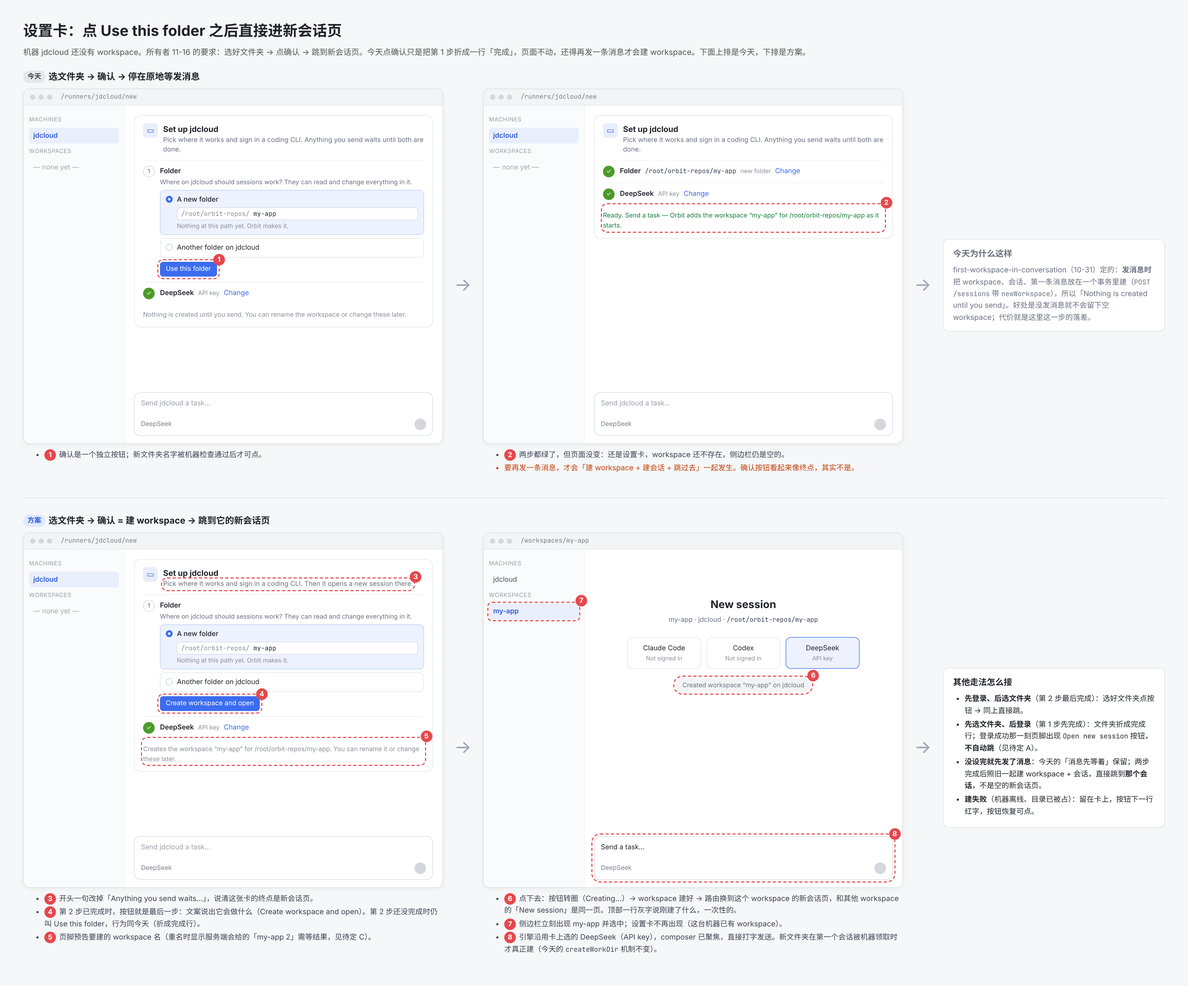
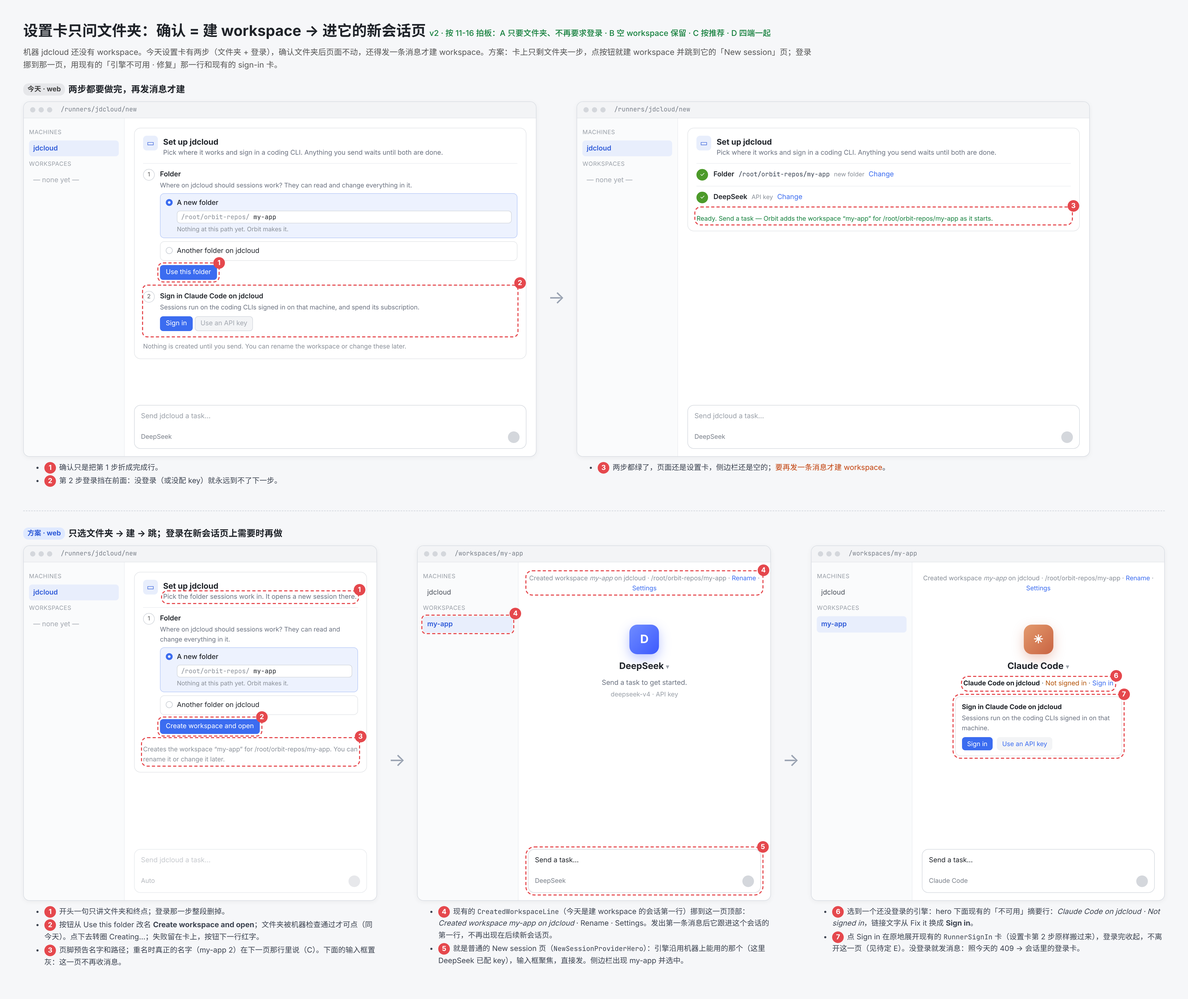
docs(mocks): setup card v2 — folder only, create and open; native frames

diff --git a/docs/mocks/setup-confirm-opens-session/board.html b/docs/mocks/setup-confirm-opens-session/board.html
@@ -91,171 +91,218 @@
   .b-box li { margin: 4px 0; }
   .b-rec { display: inline-block; background: #dcfce7; color: #15803d; font-size: 12px; padding: 0 7px; border-radius: 8px; margin-left: 6px; }
   code { font-family: "JetBrains Mono", monospace; font-size: .92em; }
+
+  .np { text-align: center; padding-top: 60px; }
+  .np-mark { width: 56px; height: 56px; border-radius: 15px; margin: 0 auto; display: flex; align-items: center; justify-content: center; color: #fff; font: 700 22px Inter, sans-serif; }
+  .np-mark.ds { background: linear-gradient(135deg, #6f8cff, #3d5afe); box-shadow: 0 8px 22px rgba(61,90,254,.34); }
+  .np-mark.cc { background: linear-gradient(135deg, #e39a6e, #c96442); box-shadow: 0 8px 22px rgba(201,100,66,.34); }
+  .np-name { font-size: 17px; font-weight: 700; margin-top: 10px; }
+  .np-name .chev { color: #9aa0a8; font-weight: 400; font-size: 13px; margin-left: 4px; }
+  .np-copy { color: #6b7280; font-size: 13px; margin-top: 6px; }
+  .np-model { color: #9aa0a8; font-size: 12px; margin-top: 2px; }
+  .np-sum { font-size: 12.5px; margin-top: 8px; color: #4a505a; }
+  .np-sum b { color: #1f2329; } .np-sum .warn { color: #b45309; } .np-sum a { color: #3b6cf0; }
+  .cwl { font-size: 12px; color: #8a9099; text-align: center; margin-top: 2px; }
+  .cwl i { font-style: italic; } .cwl a { color: #3b6cf0; }
+  .signin { margin: 14px auto 0; width: 290px; border: 1px solid #e3e5e8; border-radius: 10px; padding: 10px 12px; text-align: left; font-size: 12.5px; }
+  .signin .bt { display: inline-block; margin: 8px 8px 0 0; padding: 3px 10px; border-radius: 6px; background: #3b6cf0; color: #fff; font-size: 12px; }
+  .signin .bt.ghost { background: #f3f4f6; color: #3b6cf0; }
+
+  .phones { display: flex; gap: 26px; align-items: flex-start; flex-wrap: nowrap; }
+  .pcol { width: 330px; flex: 0 0 auto; }
+  .ph { width: 330px; height: 700px; border-radius: 44px; border: 1px solid #d6d9de; background: #f2f2f7; position: relative; overflow: hidden; box-shadow: 0 2px 10px rgba(0,0,0,.05); font-size: 13px; }
+  .ph.and { border-radius: 26px; background: #f7f8fb; }
+  .ph-st { height: 40px; display: flex; justify-content: space-between; align-items: center; padding: 6px 28px 0; font-weight: 600; font-size: 13px; }
+  .ph-home { position: absolute; bottom: 8px; left: 50%; margin-left: -55px; width: 110px; height: 4px; border-radius: 2px; background: #1f2329; }
+  .ph.and .ph-home { width: 90px; margin-left: -45px; background: #9aa0a8; }
+  .ph-nav { display: flex; align-items: center; gap: 10px; padding: 4px 14px 8px; }
+  .ph-burger { width: 32px; height: 32px; border-radius: 50%; background: #fff; display: flex; align-items: center; justify-content: center; box-shadow: 0 1px 3px rgba(0,0,0,.08); }
+  .ph-t { font-weight: 700; font-size: 15px; line-height: 1.2; } .ph-t small { display: block; font-weight: 400; color: #8a8a8d; font-size: 11.5px; }
+  .ph-card { background: #fff; margin: 4px 12px; border-radius: 16px; padding: 12px 14px; font-size: 12.5px; }
+  .ph.and .ph-card { border-radius: 14px; border: 1px solid #e3e6ec; }
+  .grp { background: rgba(120,120,128,.1); border-radius: 10px; margin-top: 6px; }
+  .grp .o { padding: 7px 10px 7px 28px; position: relative; border-top: 1px solid rgba(0,0,0,.06); }
+  .grp .o:first-child { border-top: 0; }
+  .grp .o.on::before { content: "✓"; position: absolute; left: 10px; color: #3b6cf0; font-weight: 700; }
+  .ph.and .grp .o { padding-left: 32px; } .ph.and .grp .o::before { content: ""; position: absolute; left: 10px; top: 10px; width: 12px; height: 12px; border-radius: 50%; border: 2px solid #9aa0a8; box-sizing: border-box; }
+  .ph.and .grp .o.on::before { border: 4px solid #3b6cf0; content: ""; }
+  .cap { display: inline-block; margin-top: 9px; padding: 5px 13px; border-radius: 16px; background: #3b6cf0; color: #fff; font-weight: 600; font-size: 12.5px; }
+  .ph.and .cap { border-radius: 18px; }
+  .fld { background: #fff; border: 1px solid #d5d9df; border-radius: 7px; padding: 3px 7px; margin-top: 4px; font: 11.5px "JetBrains Mono", monospace; color: #8a9099; }
+  .fld b { color: #1f2329; font-weight: 400; }
+  .ph-comp { position: absolute; left: 12px; right: 12px; bottom: 26px; background: #fff; border-radius: 20px; padding: 10px 14px; color: #9aa0a8; box-shadow: 0 1px 4px rgba(0,0,0,.06); }
+  .ph-comp .r { display: flex; justify-content: space-between; margin-top: 14px; font-size: 12px; color: #4a505a; }
+  .ph-comp .go { width: 22px; height: 22px; border-radius: 50%; background: #d4d7dc; display: inline-block; vertical-align: middle; }
+  .drawer { position: absolute; inset: 40px 70px 0 0; background: #f9f9fb; border-right: 1px solid #e3e5e8; padding: 14px 16px; }
+  .drawer .h1 { font-size: 22px; font-weight: 800; margin-bottom: 10px; }
+  .drawer .row { padding: 6px 0; } .drawer .sec { color: #8a8a8d; margin-top: 14px; font-size: 12px; border-top: 1px solid #e3e5e8; padding-top: 10px; }
+  .drawer .pill { background: #e4ebfd; color: #2f5bd8; border-radius: 10px; padding: 7px 10px; margin-top: 6px; }
+  .mac { display: flex; height: 470px; }
+  .b-done { background: #ecfdf3; border: 1px solid #b7ebc9; }
+  .b-done h3 { color: #15803d; }
 </style>
 </head>
 <body>
-
-<!-- ============ Part 1: today vs proposal ============ -->
 <section class="b-part">
-  <h1>设置卡：点 Use this folder 之后直接进新会话页</h1>
-  <p class="b-lead">机器 jdcloud 还没有 workspace。所有者 11-16 的要求：选好文件夹 → 点确认 → 跳到新会话页。今天点确认只是把第 1 步折成一行「完成」，页面不动，还得再发一条消息才会建 workspace。下面上排是今天，下排是方案。</p>
+<h1>设置卡只问文件夹：确认 = 建 workspace → 进它的新会话页 <span style="font-size:15px;color:#15803d;font-weight:500">v2 · 按 11-16 拍板：A 只要文件夹、不再要求登录 · B 空 workspace 保留 · C 按推荐 · D 四端一起</span></h1>
+<p class="b-lead">机器 jdcloud 还没有 workspace。今天设置卡有两步（文件夹 + 登录），确认文件夹后页面不动，还得发一条消息才建 workspace。方案：卡上只剩文件夹一步，点按钮就建 workspace 并跳到它的「New session」页；登录挪到那一页，用现有的「引擎不可用 · 修复」那一行和现有的 sign-in 卡。</p>
 
-  <div class="b-stage"><span class="b-tag today">今天</span>选文件夹 → 确认 → 停在原地等发消息</div>
-  <div class="b-row">
-    <div class="b-col">
-      <div class="w"><div class="w-bar"><i></i><i></i><i></i><span>/runners/jdcloud/new</span></div>
-        <div class="w-body">
-          <div class="w-side"><div class="h">Machines</div><div class="it on">jdcloud</div><div class="h">Workspaces</div><div class="it dim">— none yet —</div></div>
-          <div class="w-main">
-            <div class="msc">
-              <div class="msc-head"><div class="msc-icon">▭</div><div><div class="msc-title">Set up jdcloud</div><div class="msc-sub">Pick where it works and sign in a coding CLI. Anything you send waits until both are done.</div></div></div>
-              <div class="msc-step"><div class="msc-num">1</div><div style="flex:1">
-                <div class="msc-st">Folder</div><div class="msc-help">Where on jdcloud should sessions work? They can read and change everything in it.</div>
-                <div class="msc-opt on"><div class="msc-radio"></div><div style="flex:1"><div class="msc-st" style="font-weight:500">A new folder</div><div class="msc-input">/root/orbit-repos/ <b>my-app</b></div><div class="msc-meta">Nothing at this path yet. Orbit makes it.</div></div></div>
-                <div class="msc-opt"><div class="msc-radio"></div><div>Another folder on jdcloud</div></div>
-                <div class="b-ring msc-btn primary" style="outline-offset:3px">Use this folder<span class="b-pin">1</span></div>
-              </div></div>
-              <div class="msc-step" style="border-bottom:0"><div class="msc-num done">✓</div><div class="msc-done"><span class="msc-st">DeepSeek</span><span class="msc-meta">API key</span><span class="msc-link">Change</span></div></div>
-              <div class="msc-foot">Nothing is created until you send. You can rename the workspace or change these later.</div>
-            </div>
-            <div class="w-fill"></div>
-            <div class="composer">Send jdcloud a task…<div class="row"><span>DeepSeek</span><span class="send"></span></div></div>
-          </div>
-        </div>
-      </div>
-      <ul class="b-note"><li><span class="b-pin">1</span>确认是一个独立按钮；新文件夹名字被机器检查通过后才可点。</li></ul>
-    </div>
-    <div class="b-arrow">→</div>
-    <div class="b-col">
-      <div class="w"><div class="w-bar"><i></i><i></i><i></i><span>/runners/jdcloud/new</span></div>
-        <div class="w-body">
-          <div class="w-side"><div class="h">Machines</div><div class="it on">jdcloud</div><div class="h">Workspaces</div><div class="it dim">— none yet —</div></div>
-          <div class="w-main">
-            <div class="msc">
-              <div class="msc-head"><div class="msc-icon">▭</div><div><div class="msc-title">Set up jdcloud</div><div class="msc-sub">Pick where it works and sign in a coding CLI. Anything you send waits until both are done.</div></div></div>
-              <div class="msc-step"><div class="msc-num done">✓</div><div class="msc-done"><span class="msc-st">Folder</span><span class="msc-path">/root/orbit-repos/my-app</span><span class="msc-meta">new folder</span><span class="msc-link">Change</span></div></div>
-              <div class="msc-step" style="border-bottom:0"><div class="msc-num done">✓</div><div class="msc-done"><span class="msc-st">DeepSeek</span><span class="msc-meta">API key</span><span class="msc-link">Change</span></div></div>
-              <div class="b-ring msc-foot ready" style="outline-offset:2px">Ready. Send a task — Orbit adds the workspace “my-app” for /root/orbit-repos/my-app as it starts.<span class="b-pin">2</span></div>
-            </div>
-            <div class="w-fill"></div>
-            <div class="composer">Send jdcloud a task…<div class="row"><span>DeepSeek</span><span class="send"></span></div></div>
-          </div>
-        </div>
-      </div>
-      <ul class="b-note"><li><span class="b-pin">2</span>两步都绿了，但页面没变：还是设置卡，workspace 还不存在，侧边栏仍是空的。</li>
-      <li class="b-bad">要再发一条消息，才会「建 workspace + 建会话 + 跳过去」一起发生。确认按钮看起来像终点，其实不是。</li></ul>
-    </div>
-    <div class="b-arrow">→</div>
-    <div class="b-col" style="align-self:center; color:#6b7280; font-size:14px; max-width:420px">
-      <div class="b-box"><h3>今天为什么这样</h3>
-      <p style="margin:0">first-workspace-in-conversation（10-31）定的：<b>发消息时</b>把 workspace、会话、第一条消息放在一个事务里建（<code>POST /sessions</code> 带 <code>newWorkspace</code>），所以「Nothing is created until you send」。好处是没发消息就不会留下空 workspace；代价就是这里这一步的落差。</p></div>
-    </div>
-  </div>
+<div class="b-stage"><span class="b-tag today">今天 · web</span>两步都要做完，再发消息才建</div>
+<div class="b-row">
+ <div class="b-col"><div class="w"><div class="w-bar"><i></i><i></i><i></i><span>/runners/jdcloud/new</span></div><div class="w-body"><div class="w-side"><div class="h">Machines</div><div class="it on">jdcloud</div><div class="h">Workspaces</div><div class="it dim">— none yet —</div></div><div class="w-main"><div class="msc">
+<div class="msc-head"><div class="msc-icon">▭</div><div><div class="msc-title">Set up jdcloud</div><div class="msc-sub">Pick where it works and sign in a coding CLI. Anything you send waits until both are done.</div></div></div>
+<div class="msc-step"><div class="msc-num">1</div><div style="flex:1"><div class="msc-st">Folder</div><div class="msc-help">Where on jdcloud should sessions work? They can read and change everything in it.</div><div class="msc-opt on"><div class="msc-radio"></div><div style="flex:1"><div class="msc-st" style="font-weight:500">A new folder</div><div class="msc-input">/root/orbit-repos/ <b>my-app</b></div><div class="msc-meta">Nothing at this path yet. Orbit makes it.</div></div></div>
+<div class="msc-opt"><div class="msc-radio"></div><div>Another folder on jdcloud</div></div>
+<div class="b-ring msc-btn primary" style="outline-offset:3px">Use this folder<span class="b-pin">1</span></div></div></div>
+<div class="b-ring msc-step" style="border-bottom:0;outline-offset:0"><div class="msc-num">2</div><div style="flex:1"><div class="msc-st">Sign in Claude Code on jdcloud</div><div class="msc-help">Sessions run on the coding CLIs signed in on that machine, and spend its subscription.</div><div class="msc-btn primary">Sign in</div> <div class="msc-btn">Use an API key</div></div><span class="b-pin">2</span></div>
+<div class="msc-foot">Nothing is created until you send. You can rename the workspace or change these later.</div></div>
+<div class="w-fill"></div><div class="composer">Send jdcloud a task…<div class="row"><span>DeepSeek</span><span class="send"></span></div></div></div></div></div>
+  <ul class="b-note"><li><span class="b-pin">1</span>确认只是把第 1 步折成完成行。</li><li><span class="b-pin">2</span>第 2 步登录挡在前面：没登录（或没配 key）就永远到不了下一步。</li></ul></div>
+ <div class="b-arrow">→</div>
+ <div class="b-col"><div class="w"><div class="w-bar"><i></i><i></i><i></i><span>/runners/jdcloud/new</span></div><div class="w-body"><div class="w-side"><div class="h">Machines</div><div class="it on">jdcloud</div><div class="h">Workspaces</div><div class="it dim">— none yet —</div></div><div class="w-main"><div class="msc">
+<div class="msc-head"><div class="msc-icon">▭</div><div><div class="msc-title">Set up jdcloud</div><div class="msc-sub">Pick where it works and sign in a coding CLI. Anything you send waits until both are done.</div></div></div>
+<div class="msc-step"><div class="msc-num done">✓</div><div class="msc-done"><span class="msc-st">Folder</span><span class="msc-path">/root/orbit-repos/my-app</span><span class="msc-meta">new folder</span><span class="msc-link">Change</span></div></div>
+<div class="msc-step" style="border-bottom:0"><div class="msc-num done">✓</div><div class="msc-done"><span class="msc-st">DeepSeek</span><span class="msc-meta">API key</span><span class="msc-link">Change</span></div></div>
+<div class="b-ring msc-foot ready" style="outline-offset:2px">Ready. Send a task — Orbit adds the workspace “my-app” for /root/orbit-repos/my-app as it starts.<span class="b-pin">3</span></div></div>
+<div class="w-fill"></div><div class="composer">Send jdcloud a task…<div class="row"><span>DeepSeek</span><span class="send"></span></div></div></div></div></div>
+  <ul class="b-note"><li><span class="b-pin">3</span>两步都绿了，页面还是设置卡，侧边栏还是空的；<span class="b-bad">要再发一条消息才建 workspace</span>。</li></ul></div>
+ <div class="b-col" style="max-width:120px"></div>
+</div>
 
-  <hr class="b-sep">
+<hr class="b-sep">
 
-  <div class="b-stage"><span class="b-tag new">方案</span>选文件夹 → 确认 = 建 workspace → 跳到它的新会话页</div>
-  <div class="b-row">
-    <div class="b-col">
-      <div class="w"><div class="w-bar"><i></i><i></i><i></i><span>/runners/jdcloud/new</span></div>
-        <div class="w-body">
-          <div class="w-side"><div class="h">Machines</div><div class="it on">jdcloud</div><div class="h">Workspaces</div><div class="it dim">— none yet —</div></div>
-          <div class="w-main">
-            <div class="msc">
-              <div class="msc-head"><div class="msc-icon">▭</div><div><div class="msc-title">Set up jdcloud</div><div class="b-ring msc-sub" style="outline-offset:2px">Pick where it works and sign in a coding CLI. Then it opens a new session there.<span class="b-pin">3</span></div></div></div>
-              <div class="msc-step"><div class="msc-num">1</div><div style="flex:1">
-                <div class="msc-st">Folder</div><div class="msc-help">Where on jdcloud should sessions work? They can read and change everything in it.</div>
-                <div class="msc-opt on"><div class="msc-radio"></div><div style="flex:1"><div class="msc-st" style="font-weight:500">A new folder</div><div class="msc-input">/root/orbit-repos/ <b>my-app</b></div><div class="msc-meta">Nothing at this path yet. Orbit makes it.</div></div></div>
-                <div class="msc-opt"><div class="msc-radio"></div><div>Another folder on jdcloud</div></div>
-                <div class="b-ring msc-btn primary" style="outline-offset:3px">Create workspace and open<span class="b-pin">4</span></div>
-              </div></div>
-              <div class="msc-step" style="border-bottom:0"><div class="msc-num done">✓</div><div class="msc-done"><span class="msc-st">DeepSeek</span><span class="msc-meta">API key</span><span class="msc-link">Change</span></div></div>
-              <div class="b-ring msc-foot" style="outline-offset:2px">Creates the workspace “my-app” for /root/orbit-repos/my-app. You can rename it or change these later.<span class="b-pin">5</span></div>
-            </div>
-            <div class="w-fill"></div>
-            <div class="composer">Send jdcloud a task…<div class="row"><span>DeepSeek</span><span class="send"></span></div></div>
-          </div>
-        </div>
-      </div>
-      <ul class="b-note">
-        <li><span class="b-pin">3</span>开头一句改掉「Anything you send waits…」，说清这张卡的终点是新会话页。</li>
-        <li><span class="b-pin">4</span>第 2 步已完成时，按钮就是最后一步：文案说出它会做什么（Create workspace and open）。第 2 步还没完成时仍叫 Use this folder，行为同今天（折成完成行）。</li>
-        <li><span class="b-pin">5</span>页脚预告要建的 workspace 名（重名时显示服务端会给的「my-app 2」需等结果，见待定 C）。</li>
-      </ul>
-    </div>
-    <div class="b-arrow">→</div>
-    <div class="b-col">
-      <div class="w"><div class="w-bar"><i></i><i></i><i></i><span>/workspaces/my-app</span></div>
-        <div class="w-body">
-          <div class="w-side"><div class="h">Machines</div><div class="it">jdcloud</div><div class="h">Workspaces</div><div class="b-ring it on" style="outline-offset:1px">my-app<span class="b-pin">7</span></div></div>
-          <div class="w-main">
-            <div class="hero">
-              <div class="t">New session</div>
-              <div class="s">my-app · jdcloud · <code>/root/orbit-repos/my-app</code></div>
-              <div class="tiles"><div class="tile"><div>Claude Code</div><div class="k">Not signed in</div></div><div class="tile"><div>Codex</div><div class="k">Not signed in</div></div><div class="tile on"><div>DeepSeek</div><div class="k">API key</div></div></div>
-              <div class="b-ring toast" style="outline-offset:3px">Created workspace “my-app” on jdcloud<span class="b-pin">6</span></div>
-            </div>
-            <div class="w-fill"></div>
-            <div class="b-ring composer" style="color:#1f2329; outline-offset:3px">Send a task…<span class="b-pin">8</span><div class="row"><span>DeepSeek</span><span class="send"></span></div></div>
-          </div>
-        </div>
-      </div>
-      <ul class="b-note">
-        <li><span class="b-pin">6</span>点下去：按钮转圈（Creating…）→ workspace 建好 → 路由换到这个 workspace 的新会话页，和其他 workspace 的「New session」是同一页。顶部一行灰字说刚建了什么，一次性的。</li>
-        <li><span class="b-pin">7</span>侧边栏立刻出现 my-app 并选中；设置卡不再出现（这台机器已有 workspace）。</li>
-        <li><span class="b-pin">8</span>引擎沿用卡上选的 DeepSeek（API key），composer 已聚焦，直接打字发送。新文件夹在第一个会话被机器领取时才真正建（今天的 <code>createWorkDir</code> 机制不变）。</li>
-      </ul>
-    </div>
-    <div class="b-arrow">→</div>
-    <div class="b-col" style="align-self:center; max-width:420px">
-      <div class="b-box"><h3>其他走法怎么接</h3>
-      <ul style="font-size:14px">
-        <li><b>先登录、后选文件夹</b>（第 2 步最后完成）：选好文件夹点按钮 → 同上直接跳。</li>
-        <li><b>先选文件夹、后登录</b>（第 1 步先完成）：文件夹折成完成行；登录成功那一刻页脚出现 <code>Open new session</code> 按钮，<b>不自动跳</b>（见待定 A）。</li>
-        <li><b>没设完就先发了消息</b>：今天的「消息先等着」保留；两步完成后照旧一起建 workspace + 会话，直接跳到<b>那个会话</b>，不是空的新会话页。</li>
-        <li><b>建失败</b>（机器离线、目录已被占）：留在卡上，按钮下一行红字，按钮恢复可点。</li>
-      </ul></div>
-    </div>
-  </div>
+<div class="b-stage"><span class="b-tag new">方案 · web</span>只选文件夹 → 建 → 跳；登录在新会话页上需要时再做</div>
+<div class="b-row">
+ <div class="b-col"><div class="w"><div class="w-bar"><i></i><i></i><i></i><span>/runners/jdcloud/new</span></div><div class="w-body"><div class="w-side"><div class="h">Machines</div><div class="it on">jdcloud</div><div class="h">Workspaces</div><div class="it dim">— none yet —</div></div><div class="w-main"><div class="msc">
+<div class="msc-head"><div class="msc-icon">▭</div><div><div class="msc-title">Set up jdcloud</div><div class="b-ring msc-sub" style="outline-offset:2px">Pick the folder sessions work in. It opens a new session there.<span class="b-pin">1</span></div></div></div>
+<div class="msc-step" style="border-bottom:0"><div class="msc-num">1</div><div style="flex:1"><div class="msc-st">Folder</div><div class="msc-help">Where on jdcloud should sessions work? They can read and change everything in it.</div><div class="msc-opt on"><div class="msc-radio"></div><div style="flex:1"><div class="msc-st" style="font-weight:500">A new folder</div><div class="msc-input">/root/orbit-repos/ <b>my-app</b></div><div class="msc-meta">Nothing at this path yet. Orbit makes it.</div></div></div>
+<div class="msc-opt"><div class="msc-radio"></div><div>Another folder on jdcloud</div></div>
+<div class="b-ring msc-btn primary" style="outline-offset:3px">Create workspace and open<span class="b-pin">2</span></div></div></div>
+<div class="b-ring msc-foot" style="outline-offset:2px">Creates the workspace “my-app” for /root/orbit-repos/my-app. You can rename it or change it later.<span class="b-pin">3</span></div></div>
+<div class="w-fill"></div>
+<div class="composer" style="opacity:.55">Send jdcloud a task…<div class="row"><span>Auto</span><span class="send"></span></div></div></div></div></div>
+  <ul class="b-note">
+   <li><span class="b-pin">1</span>开头一句只讲文件夹和终点；登录那一步整段删掉。</li>
+   <li><span class="b-pin">2</span>按钮从 Use this folder 改名 <b>Create workspace and open</b>；文件夹被机器检查通过才可点（同今天）。点下去转圈 Creating…；失败留在卡上，按钮下一行红字。</li>
+   <li><span class="b-pin">3</span>页脚预告名字和路径；重名时真正的名字（my-app 2）在下一页那行里说（C）。下面的输入框置灰：这一页不再收消息。</li>
+  </ul></div>
+ <div class="b-arrow">→</div>
+ <div class="b-col"><div class="w"><div class="w-bar"><i></i><i></i><i></i><span>/workspaces/my-app</span></div><div class="w-body"><div class="w-side"><div class="h">Machines</div><div class="it">jdcloud</div><div class="h">Workspaces</div><div class="b-ring it on" style="outline-offset:1px">my-app<span class="b-pin">4</span></div></div><div class="w-main"><div class="b-ring cwl" style="outline-offset:3px">Created workspace <i>my-app</i> on jdcloud · /root/orbit-repos/my-app · <a>Rename</a> · <a>Settings</a><span class="b-pin">4</span></div>
+<div class="np"><div class="np-mark ds">D</div><div class="np-name">DeepSeek<span class="chev">▾</span></div><div class="np-copy">Send a task to get started.</div><div class="np-model">deepseek-v4 · API key</div></div>
+<div class="w-fill"></div>
+<div class="b-ring composer" style="color:#1f2329;outline-offset:3px">Send a task…<span class="b-pin">5</span><div class="row"><span>DeepSeek</span><span class="send"></span></div></div></div></div></div>
+  <ul class="b-note">
+   <li><span class="b-pin">4</span>现有的 <code>CreatedWorkspaceLine</code>（今天是建 workspace 的会话第一行）挪到这一页顶部：<i>Created workspace my-app on jdcloud</i> · Rename · Settings。发出第一条消息后它跟进这个会话的第一行，不再出现在后续新会话页。</li>
+   <li><span class="b-pin">5</span>就是普通的 New session 页（<code>NewSessionProviderHero</code>）：引擎沿用机器上能用的那个（这里 DeepSeek 已配 key），输入框聚焦，直接发。侧边栏出现 my-app 并选中。</li>
+  </ul></div>
+ <div class="b-arrow">→</div>
+ <div class="b-col"><div class="w"><div class="w-bar"><i></i><i></i><i></i><span>/workspaces/my-app</span></div><div class="w-body"><div class="w-side"><div class="h">Machines</div><div class="it">jdcloud</div><div class="h">Workspaces</div><div class="it on">my-app</div></div><div class="w-main"><div class="cwl">Created workspace <i>my-app</i> on jdcloud · /root/orbit-repos/my-app · <a>Rename</a> · <a>Settings</a></div>
+<div class="np"><div class="np-mark cc">✳</div><div class="np-name">Claude Code<span class="chev">▾</span></div>
+<div class="b-ring np-sum" style="outline-offset:3px;display:inline-block"><b>Claude Code on jdcloud</b> · <span class="warn">Not signed in</span> · <a>Sign in</a><span class="b-pin">6</span></div>
+<div class="b-ring signin" style="outline-offset:3px"><b>Sign in Claude Code on jdcloud</b><div class="msc-help">Sessions run on the coding CLIs signed in on that machine.</div><span class="bt">Sign in</span><span class="bt ghost">Use an API key</span><span class="b-pin">7</span></div></div>
+<div class="w-fill"></div>
+<div class="composer" style="color:#1f2329">Send a task…<div class="row"><span>Claude Code</span><span class="send"></span></div></div></div></div></div>
+  <ul class="b-note">
+   <li><span class="b-pin">6</span>选到一个还没登录的引擎：hero 下面现有的「不可用」摘要行：<i>Claude Code on jdcloud · Not signed in</i>，链接文字从 Fix it 换成 <b>Sign in</b>。</li>
+   <li><span class="b-pin">7</span>点 Sign in 在原地展开现有的 <code>RunnerSignIn</code> 卡（设置卡第 2 步原样搬过来），登录完收起，不离开这一页（见待定 E）。没登录就发消息：照今天的 409 → 会话里的登录卡。</li>
+  </ul></div>
+</div>
 </section>
-
-<!-- ============ Part 2: rules, changes, decisions ============ -->
 <section class="b-part">
-  <h2>改动清单 · 待你定</h2>
-  <div class="b-row" style="align-items:stretch">
-    <div class="b-col b-box">
-      <h3>规则</h3>
-      <ol>
-        <li>确认按钮是设置的终点：两步都完成时，点它就建 workspace 并进入它的新会话页。</li>
-        <li>建出来的 workspace 和 10-31 的规则一致：名字取文件夹名、重名加「 2」、隔离关、新文件夹 <code>autoCreateWorkDir</code>。</li>
-        <li>引擎/凭据沿用卡上已选的，带到新会话页的草稿。</li>
-        <li>已有等待中的消息时，不建空 workspace，直接按今天的路建 workspace + 会话。</li>
-        <li>失败不跳页、不留半个 workspace（服务端一个请求一个事务）。</li>
-        <li>「Nothing is created until you send」这句删掉；SETUP_LEAD、setupReady 换成新文案。</li>
-      </ol>
-    </div>
-    <div class="b-col b-box">
-      <h3>落地（按代价排）</h3>
-      <table class="b-t">
-        <tr><th>层</th><th>改什么</th><th>量</th></tr>
-        <tr><td>apiserver</td><td><code>POST /workspaces</code> 接受 <code>{ runnerId, newWorkspace: { workDir | newFolder } }</code>，复用 <code>newWorkspaceFor</code>（取名去重、reposRoot 拼路径、<code>autoCreateWorkDir</code>、能力检查 409 <code>NEW_FOLDER_UNSUPPORTED</code>）。pg spec 覆盖两种文件夹 + 重名。</td><td>小</td></tr>
-        <tr><td>web</td><td><code>MachineSetupCard</code> 按钮文案/状态；<code>WorkspaceView</code> 在两步完成且无等待消息时调用新接口，成功后 <code>setup.finish</code> + 导航到 <code>/workspaces/:id</code>（空草稿） 并带上草稿引擎；一次性提示行；copy 改动 + 测试。</td><td>中</td></tr>
-        <tr><td>contract</td><td><code>docs/first-workspace-contract.md</code> 加 §3b：不带会话建 workspace。</td><td>小</td></tr>
-        <tr><td>iOS / macOS / Android</td><td>同样的终点行为（它们的设置卡已跟 web）。</td><td>中 · 可后跟</td></tr>
-      </table>
-    </div>
-  </div>
+<h2>iPhone · Android · Mac：同一条规则，四端一起上（D）</h2>
+<p class="b-lead">三个原生端今天的设置卡和 web 一样两步（<code>MachineSetupCard.swift</code>、<code>MachineSetupCard.kt</code>）。一样删掉登录步，按钮改成建 + 跳；跳过去的是各端现有的 workspace 新会话页，顶部是各端现有的 <code>CreatedWorkspaceLine</code>。手绘，结构取自现有代码，文案照代码。</p>
+<div class="phones">
+ <div class="pcol"><div class="b-stage"><span class="b-tag new">iPhone</span>设置卡</div><div class="ph"><div class="ph-st"><span>9:41</span><span>●●● ▮</span></div><div class="ph-nav"><div class="ph-burger">☰</div><div class="ph-t">New session<small>jdcloud</small></div></div>
+<div class="ph-card"><div style="display:flex;gap:8px"><div class="msc-icon" style="width:22px;height:22px;font-size:12px">▭</div><div><b>Set up jdcloud</b><div class="msc-help" style="font-size:11.5px">Pick the folder sessions work in. It opens a new session there.</div></div></div>
+<div style="margin-top:10px"><b>Folder</b><div class="msc-help" style="font-size:11.5px">Where on jdcloud should sessions work? They can read and change everything in it.</div>
+<div class="grp"><div class="o on">A new folder<div class="fld">/root/orbit-repos/ <b>my-app</b></div><div class="msc-meta">Nothing at this path yet. Orbit makes it.</div></div><div class="o">Another folder…</div></div>
+<div class="b-ring cap" style="outline-offset:3px">Create Workspace and Open<span class="b-pin">1</span></div></div>
+<div class="msc-meta" style="margin-top:10px;border-top:1px solid #eee;padding-top:8px">Creates the workspace “my-app” for /root/orbit-repos/my-app. You can rename it or change it later.</div></div><div class="ph-comp" style="opacity:.5">Send jdcloud a task…<div class="r"><span>＋ Auto</span><span>DeepSeek <span class="go"></span></span></div></div><div class="ph-home"></div></div></div>
+ <div class="b-arrow">→</div>
+ <div class="pcol"><div class="b-stage"><span class="b-tag new">iPhone</span>建好、跳到新会话页</div><div class="ph"><div class="ph-st"><span>9:41</span><span>●●● ▮</span></div><div class="ph-nav"><div class="ph-burger">☰</div><div class="b-ring ph-t" style="outline-offset:3px">New session<small>my-app · jdcloud</small><span class="b-pin">2</span></div></div>
+<div class="b-ring cwl" style="margin:8px 16px;outline-offset:3px">Created workspace <i>my-app</i> on jdcloud · /root/orbit-repos/my-app<br><a>Rename</a> · <a>Settings</a><span class="b-pin">3</span></div>
+<div class="np" style="padding-top:110px"><div class="np-mark ds">D</div><div class="np-name">DeepSeek<span class="chev">▾</span></div><div class="np-copy">Send a task to get started.</div></div><div class="ph-comp" style="">Send a task…<div class="r"><span>＋ Auto</span><span>DeepSeek <span class="go"></span></span></div></div><div class="ph-home"></div></div></div>
+ <div class="pcol"><div class="b-stage"><span class="b-tag new">iPhone</span>抽屉</div><div class="ph"><div class="ph-st"><span>9:41</span><span>●●● ▮</span></div><div class="drawer"><div class="h1">Orbit</div><div class="row">▦ Projects</div><div class="row">☰ Tasks</div><div class="row">▤ Wiki</div>
+<div class="sec">Workspaces</div><div class="b-ring pill" style="outline-offset:2px">my-app <span style="color:#8a8a8d;font-size:11px">jdcloud</span><span class="b-pin">4</span></div></div><div class="ph-home"></div></div></div>
+ <div class="pcol" style="width:30px"></div>
+ <div class="pcol"><div class="b-stage"><span class="b-tag new">Android</span>设置卡</div><div class="ph and"><div class="ph-st" style="padding:6px 20px 0"><span>9:41</span><span>▾ ▮</span></div><div class="ph-nav" style="padding:6px 12px 8px"><span style="font-size:18px">☰</span><div class="ph-t">New session<small>jdcloud</small></div></div>
+<div class="ph-card"><b style="font-size:14px">Set up jdcloud</b><div class="msc-help" style="font-size:11.5px">Pick the folder sessions work in. It opens a new session there.</div>
+<div style="margin-top:10px"><b>Folder</b>
+<div class="grp" style="background:#fff;border:1px solid #e3e6ec"><div class="o on">A new folder<div class="fld">/root/orbit-repos/ <b>my-app</b></div></div><div class="o">Another folder on jdcloud</div></div>
+<div class="b-ring cap" style="outline-offset:3px">Create workspace and open<span class="b-pin">5</span></div></div>
+<div class="msc-meta" style="margin-top:10px">Creates the workspace “my-app” for /root/orbit-repos/my-app.</div></div><div class="ph-comp" style="border-radius:24px;opacity:.5">Send jdcloud a task…<div class="r"><span>＋</span><span>DeepSeek <span class="go"></span></span></div></div><div class="ph-home"></div></div></div>
+ <div class="b-arrow">→</div>
+ <div class="pcol"><div class="b-stage"><span class="b-tag new">Android</span>新会话页 · 未登录引擎</div><div class="ph and"><div class="ph-st" style="padding:6px 20px 0"><span>9:41</span><span>▾ ▮</span></div><div class="ph-nav" style="padding:6px 12px 8px"><span style="font-size:18px">☰</span><div class="ph-t">New session<small>my-app · jdcloud</small></div></div>
+<div class="cwl" style="margin:8px 16px">Created workspace <i>my-app</i> on jdcloud<br><a>Rename</a> · <a>Settings</a></div>
+<div class="np" style="padding-top:90px"><div class="np-mark cc">✳</div><div class="np-name">Claude Code<span class="chev">▾</span></div>
+<div class="b-ring np-sum" style="outline-offset:3px;display:inline-block"><b>Claude Code on jdcloud</b> · <span class="warn">Not signed in</span> · <a>Sign in</a><span class="b-pin">6</span></div></div><div class="ph-comp" style="border-radius:24px;">Send a task…<div class="r"><span>＋</span><span>DeepSeek <span class="go"></span></span></div></div><div class="ph-home"></div></div></div>
+</div>
+<div class="b-row" style="margin-top:22px">
+ <div class="b-col"><ul class="b-note" style="font-size:14px">
+  <li><span class="b-pin">1</span>iOS 胶囊按钮，标题式大写 <b>Create Workspace and Open</b>（同今天 Use This Folder 的写法）。</li>
+  <li><span class="b-pin">2</span>标题栏从机器名换成 workspace 名 + 机器：和点抽屉里任何 workspace 进来的新会话页一样。</li>
+  <li><span class="b-pin">3</span>现有的 <code>CreatedWorkspaceLineView</code>，放在新会话页顶部。</li>
+  <li><span class="b-pin">4</span>抽屉里 <i>Set up jdcloud</i> 那一行换成 my-app 的 workspace 行。</li>
+  <li><span class="b-pin">5</span>Android 跟 iOS：同一张卡、同一个按钮（Material 圆角按钮，句首大写）。</li>
+  <li><span class="b-pin">6</span>引擎没登录时，hero 下一行 <i>Not signed in · Sign in</i>，点开现有的 sign-in 卡；三端一样。</li>
+ </ul></div>
+ <div class="b-col" style="flex:0 0 auto"><div class="w" style="width:640px"><div class="w-bar"><i></i><i></i><i></i><span>Orbit — my-app</span></div><div class="mac">
+<div class="w-side" style="width:150px"><div class="h">Workspaces</div><div class="b-ring it on" style="outline-offset:1px">my-app<span class="b-pin">7</span></div><div class="h" style="margin-top:14px">jdcloud</div></div>
+<div style="flex:1"><div style="display:flex;height:100%"><div style="flex:1;padding:14px"><div class="cwl">Created workspace <i>my-app</i> on jdcloud · /root/orbit-repos/my-app · <a>Rename</a> · <a>Settings</a></div>
+<div class="np" style="padding-top:70px"><div class="np-mark ds">D</div><div class="np-name">DeepSeek<span class="chev">▾</span></div><div class="np-copy">Send a task to get started.</div></div>
+<div class="composer" style="margin-top:110px;color:#1f2329">Send a task…<div class="row"><span>DeepSeek</span><span class="send"></span></div></div></div></div></div></div></div>
+  <ul class="b-note" style="font-size:14px;max-width:640px"><li><span class="b-pin">7</span>Mac：侧边栏 jdcloud 分组下的 <i>Set up jdcloud</i> 换成 my-app 行并选中；主区同 web。</li></ul></div>
+</div>
+</section>
+<section class="b-part">
+<h2>规则 · 改动 · 已定 / 还待你定</h2>
+<div class="b-row" style="align-items:stretch">
+ <div class="b-col b-box">
+  <h3>规则</h3>
+  <ol>
+   <li>设置卡只问一件事：文件夹。登录不再是建 workspace 的前提（A）。</li>
+   <li>按钮 = 建 workspace + 跳到它的新会话页。按钮在文件夹被机器检查通过前不可点（同今天）。</li>
+   <li>建出来的 workspace 和 10-31 规则一致：名字取文件夹名、重名加「 2」、隔离关、新文件夹 <code>autoCreateWorkDir</code>（第一个会话被领取时由机器建）。</li>
+   <li>点了没发消息就离开：workspace 留着，就是普通 workspace（B）。</li>
+   <li>名字以服务端为准，在新会话页的 Created workspace 行里说（C）。</li>
+   <li>新会话页的引擎：沿用机器上能直接跑的那个（已登录或已配 key）；都不能跑时选第一个已装的，hero 下显示 Not signed in · Sign in。</li>
+   <li>设置卡这一页不再收消息：输入框置灰（「消息先等着」这套 held message 删掉，见待定 F）。</li>
+   <li>失败不跳页、不留半个 workspace（一个请求一个事务）。</li>
+   <li>四端同一批（D）；文案全英文，三端共用一份 copy。</li>
+  </ol>
+ </div>
+ <div class="b-col b-box">
+  <h3>落地（按代价排）</h3>
+  <table class="b-t">
+   <tr><th>层</th><th>改什么</th><th>量</th></tr>
+   <tr><td>apiserver</td><td><code>POST /workspaces</code> 接受 <code>{ runnerId, newWorkspace: { workDir | newFolder } }</code>，复用 <code>newWorkspaceFor</code>（取名去重、reposRoot 拼路径、<code>autoCreateWorkDir</code>、409 <code>NEW_FOLDER_UNSUPPORTED</code>）。不查登录。pg spec：两种文件夹、重名、并发两次。</td><td>小</td></tr>
+   <tr><td>contract</td><td><code>docs/first-workspace-contract.md</code> 加 §3b：不带会话建 workspace；§3 的带会话路径保留给老客户端。</td><td>小</td></tr>
+   <tr><td>web</td><td><code>MachineSetupCard</code> 删登录步、按钮/文案；<code>WorkspaceView</code> 建好后 <code>setup.finish</code> + 导航；<code>CreatedWorkspaceLine</code> 能挂在新会话页；hero 的 Not signed in 行 + 原地 <code>RunnerSignIn</code>；<code>WelcomeCard</code> 同步；copy + 测试。</td><td>中</td></tr>
+   <tr><td>iOS / macOS</td><td><code>MachineSetupCard.swift</code>、<code>MachineSetupModel</code>、<code>CreatedWorkspaceLineView</code> 挂点、抽屉/侧边栏行；OrbitKit API + 测试。</td><td>中</td></tr>
+   <tr><td>Android</td><td><code>MachineSetupCard.kt</code>、<code>ComposerModel</code>、<code>ComposerApi</code>、抽屉行；跟 iOS 并排对帧。</td><td>中</td></tr>
+  </table>
+ </div>
+</div>
 
-  <div class="b-box" style="margin-top:22px">
-    <h3>待定 · 要你拍板</h3>
-    <table class="b-t">
-      <tr><th style="width:22%">问题</th><th>方案 A</th><th>方案 B</th><th style="width:16%">推荐</th></tr>
-      <tr><td><b>A. 先选文件夹、后登录时，登录成功要不要自动跳？</b></td><td>不自动跳；页脚出 <code>Open new session</code> 按钮，用户点了才建、才跳。「确认才建」一条规则贯穿。</td><td>登录成功就自动建 + 跳。少点一次，但登录回调常在另一个标签/页面完成，回来时页面已变，容易迷路。</td><td>A<span class="b-rec">推荐</span></td></tr>
-      <tr><td><b>B. 确认后、还没发消息就离开，空 workspace 留不留？</b></td><td>留着。它就是一个普通 workspace（和机器页表单建的一样），下次打开直接用。</td><td>没发过消息的 workspace 在离开时删掉，回到「没发就不建」。逻辑复杂，还会让侧边栏闪一下又消失。</td><td>A<span class="b-rec">推荐</span></td></tr>
-      <tr><td><b>C. 重名时按钮/页脚显示什么名？</b></td><td>页脚写文件夹名；真正的名字（可能是「my-app 2」）以服务端结果为准，在新会话页提示行里说出来。</td><td>先问服务端预取名再显示。多一次请求，名字可能被并发抢走。</td><td>A<span class="b-rec">推荐</span></td></tr>
-      <tr><td><b>D. 原生端一起上吗？</b></td><td>web 先上，iOS/macOS/Android 跟一个任务。</td><td>四端同一批落地。</td><td>A<span class="b-rec">推荐</span></td></tr>
-    </table>
-  </div>
+<div class="b-row" style="margin-top:22px;align-items:stretch">
+ <div class="b-col b-box b-done">
+  <h3>已定（11-16）</h3>
+  <ul>
+   <li><b>A</b> 选好文件夹就建 workspace 并跳到新会话页；设置卡不再要求登录。</li>
+   <li><b>B</b> 没发消息就离开，空 workspace 保留。</li>
+   <li><b>C</b> 页脚写文件夹名，真正的名字以服务端为准、在新会话页说。</li>
+   <li><b>D</b> web、iOS、macOS、Android 一起上。</li>
+  </ul>
+ </div>
+ <div class="b-col b-box" style="flex:2">
+  <h3>还待你定（因为 A 新冒出来的）</h3>
+  <table class="b-t">
+   <tr><th style="width:24%">问题</th><th>方案 A</th><th>方案 B</th><th style="width:12%">推荐</th></tr>
+   <tr><td><b>E. 新会话页上引擎没登录，Sign in 在哪做？</b></td><td>原地展开现有的 <code>RunnerSignIn</code> 卡（就是设置卡第 2 步原样搬过来），登录完收起，不离开页面。</td><td>沿用今天的 Fix it：跳到机器设置页的引擎那一行登录，再自己回来。零新界面，但新用户第一次要绕一圈。</td><td>A<span class="b-rec">推荐</span></td></tr>
+   <tr><td><b>F. 设置卡页上还没选文件夹就打字发送？</b></td><td>不收：输入框置灰，占位写 <i>Pick a folder first</i>。「消息先等着」那套（held message、Withdraw、Waiting for…）整个删掉，少一条路。</td><td>保留：消息先等着，点建的同时把它一起发出去，跳到那个会话。今天的代码能复用，但多一种状态要四端都维护。</td><td>A<span class="b-rec">推荐</span></td></tr>
+  </table>
+ </div>
+</div>
 </section>
 </body>
 </html>
